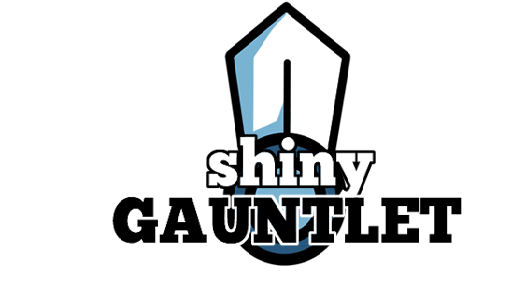
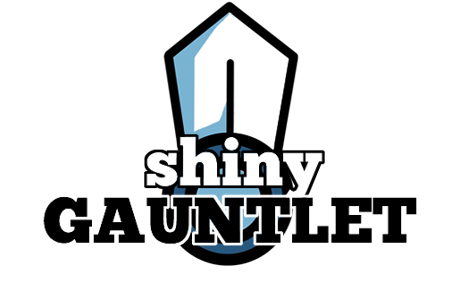
changed how title screen is displayed

Changed region(s): [[0.0905, 0.0, 0.9052, 0.9577]]

diff --git a/src/js/game.js b/src/js/game.js
@@ -57,6 +57,8 @@
     this.dashD = 0;
     this.dashW = 0;
     
+    this.titleCtrl = false;
+    
     this.playerHp = [];
     this.monHp = null;
     
@@ -291,17 +293,24 @@
     this.shadowGroup.add(lightSprite);
     this.textGroup.add(this.txt); 
 
-          
+    //title
+    this.titleName = this.add.sprite(400, 150, 'title');
+    this.titleName.anchor.setTo(0.5, 0.5);
       
     // load
      
     this.reload();      
-      
+    //show title on first floor 
+    if( localStorage.getItem("floorNum") == 0){
+      this.titleName.alpha = 1;
+    }
+    
       
     },
 
     update: function () {
-     
+
+      
       this.txt.y += (this.txtTar - this.txt.y)*0.1;
       //show room text
       this.seedTxt.setText("FLOOR #"+localStorage.getItem("floorNum")+" ["+this.player.worldPosX+"] ["+this.player.worldPosY+"]");
@@ -872,6 +881,7 @@
                    
           if (this.holderA && this.game.input.keyboard.isDown(Phaser.Keyboard.A) )
           {
+              
               this.player.body.x -= dist;
               if(this.player.body.x < 100){
                 this.player.body.x = 100;                
@@ -1629,6 +1639,9 @@
       if(obj2.monType > 5 &&  obj2.monType < 10){
         obj2.visible = false;
         this.setWep(obj2.monType-5,obj2.prefix);
+        this.textCounter = 200;
+        this.txt.setText("Press <space> to use your class ability");
+        
         
       }  
       //life
@@ -1711,6 +1724,8 @@
       if(obj2.monType > 5 &&  obj2.monType < 10){
         obj2.visible = false;
         this.setWep(obj2.monType-5,obj2.prefix);
+        this.textCounter = 200;
+        this.txt.setText("Press <space> to use your class ability");   
 
       
       }     
@@ -1725,7 +1740,8 @@
     
     reload: function () {
       //alert(this.player.worldPosX+" "+this.player.worldPosY);
-
+      //hide titleCtr
+      this.titleName.alpha = 0;
       //where you entered
       this.player.enterX = this.player.x;
       this.player.enterY = this.player.y;   

diff --git a/src/js/preloader.js b/src/js/preloader.js
@@ -21,7 +21,8 @@
    
 
       
-      
+      //title
+      this.load.image('title','assets/titleScreen1.png');
       
       this.load.image('mon1','assets/monsters/mon1.png');
       this.load.image('mon2','assets/monsters/mon2.png');
@@ -108,7 +109,7 @@
         //this.ready=true;
         //hide loading css
         this.titleTxt.setText('FLOOR '+localStorage.getItem("floorNum")+' READY \n PRES <SPACE> TO START');
-        if(this.game.input.keyboard.isDown(Phaser.Keyboard.SPACEBAR) ){
+        if(this.game.input.keyboard.isDown(Phaser.Keyboard.SPACEBAR) || localStorage.getItem("floorNum") == 0 ){
           this.game.state.start('game');
         }
         

diff --git a/src/css/main.css b/src/css/main.css
@@ -8,15 +8,15 @@ html, body {
   height: 100%;
   overflow: hidden;
   margin: 0px;
-  background-color: #3c868c;
+  background-color: #000;
 }
 
 #titleScreen{
-  padding-top: 240px;
+  padding-top: -200px;
   text-align: center;
   font-family: 'chunkfiveroman';
   font-size: 24px;
-  background-image:url('../assets/titleScreen.png');
+  
   background-repeat:no-repeat;
   background-position: 48% 0px;
 }

diff --git a/src/index.html b/src/index.html
@@ -18,15 +18,12 @@
   
   <div id="titleScreen">
 
-    <br/>
-    <br/>
-    <br/>
-
     
 
     <div id="diff"></div>
-    <input id="clickMe"  type="button" value="Play" onclick="genDungeon();" />
-
+    <img src="assets/intro.png"></img>
+    <!--<input id="clickMe"  type="button" value="Play" onclick="genDungeon();" />-->
+    
 
 
 

diff --git a/src/game.html b/src/game.html
@@ -52,7 +52,7 @@
         world[''+i+j] = new Object();
         world[''+i+j].posX = 0;
         world[''+i+j].posY = 0;
-        world[''+i+j].light = 300;
+        world[''+i+j].light = 400;
         world[''+i+j].dir = [];
         world[''+i+j].dir[0] = 0;
         world[''+i+j].dir[1] = 0;
